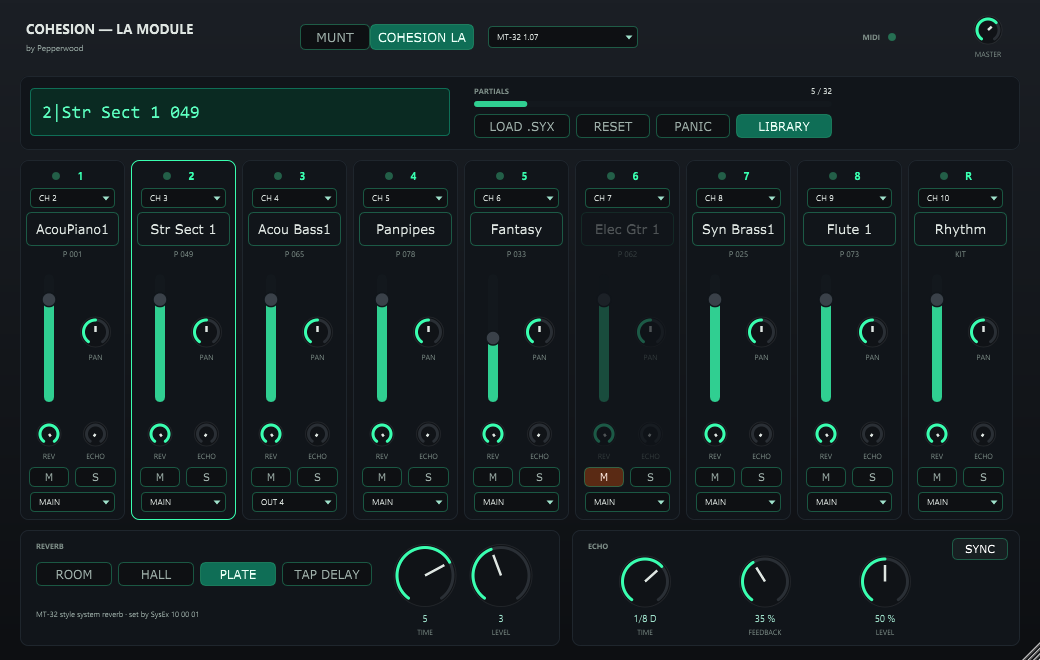
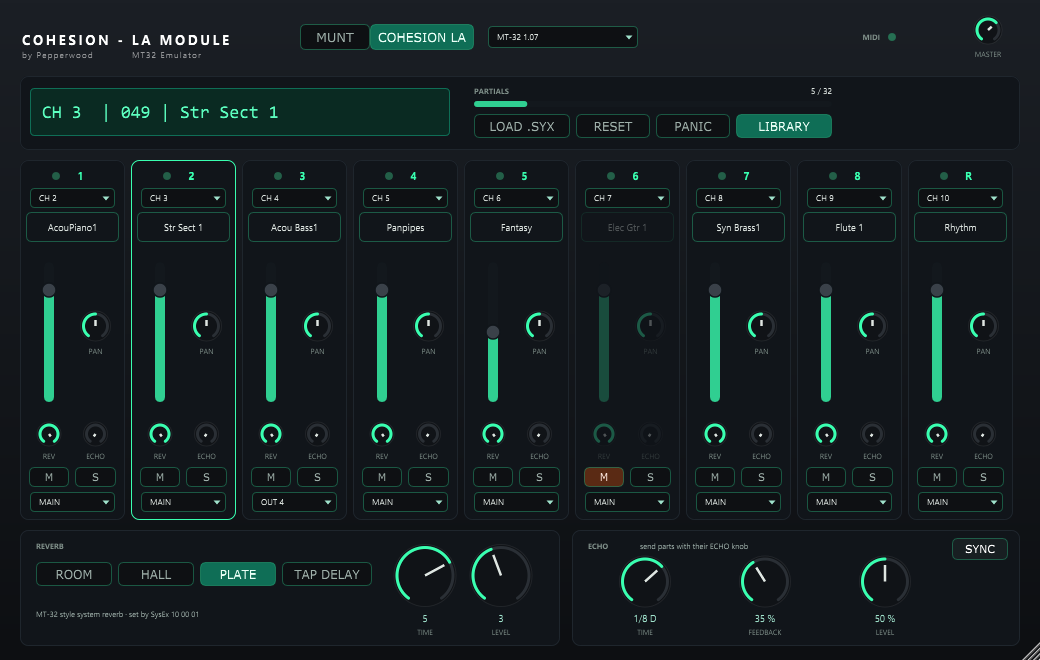
LA Module: stereo pairs, MT-32 pan law, level match, LCD and header
- LA voice: stereo render with the MT-32 pan law (linear, panpot 0 = right,
  CC 10 inverted); structures 8/9 spread their two partials as a stereo pair
- COHESION LA engine +6.6 dB: same level as MUNT (median over the timbres)
- LCD: CH | program | name in fixed columns; smaller part names, no program
  number in the strips
- header: title/subtitle at the same place and style as the other plugins,
  "MT32 Emulator" under LA MODULE; echo panel explains the per-part send
- ModuleTest: "levels" diagnostic (level, stereo width, echo per engine)

diff --git a/Cohesion-LaModule/Source/PluginEditor.cpp b/Cohesion-LaModule/Source/PluginEditor.cpp
@@ -30,6 +30,7 @@ PartStrip::PartStrip (LaModuleEditor& e, LaModuleProcessor& p, int index) : ed (
     nameBtn.setColour (juce::TextButton::textColourOffId, ui::text);
     nameBtn.onClick = [this] { ed.selectPart (idx); ed.showLibrary (idx); };
     nameBtn.setTooltip ("Choose a timbre");
+    nameBtn.getProperties().set ("fontSize", 12.5f);
     addAndMakeVisible (nameBtn);
 
     fader.setSliderStyle (juce::Slider::LinearVertical);
@@ -58,8 +59,8 @@ void PartStrip::resized()
     r.removeFromTop (4);
     chBox.setBounds (r.removeFromTop (20).reduced (4, 0));
     r.removeFromTop (4);
-    nameBtn.setBounds (r.removeFromTop (34));
-    r.removeFromTop (16);                                       // program number (painted)
+    nameBtn.setBounds (r.removeFromTop (30));
+    r.removeFromTop (8);
     auto out = r.removeFromBottom (20); outBox.setBounds (out.reduced (4, 0));
     r.removeFromBottom (5);
     auto ms = r.removeFromBottom (20);
@@ -81,8 +82,6 @@ void PartStrip::paint (juce::Graphics& g)
     auto r = getLocalBounds().reduced (6, 8);
     g.setColour (ui::teal); g.setFont (ui::font (14.0f, true));
     g.drawText (idx < 8 ? juce::String (idx + 1) : juce::String ("R"), r.removeFromTop (16).withTrimmedLeft (16), juce::Justification::centred);
-    g.setColour (ui::label.withAlpha (dimmed ? 0.35f : 1.0f)); g.setFont (ui::font (10.5f));
-    g.drawText (program, getLocalBounds().withY (8 + 16 + 4 + 20 + 4 + 34).withHeight (16), juce::Justification::centred);
 }
 
 void PartStrip::mouseDown (const juce::MouseEvent&) { ed.selectPart (idx); }
@@ -104,7 +103,6 @@ void PartStrip::refresh (bool sel)
     muteBtn.setColour (juce::TextButton::buttonOnColourId, muteOn); muteBtn.setColour (juce::TextButton::textColourOnId, muteText);
     soloBtn.setColour (juce::TextButton::buttonOnColourId, soloOn); soloBtn.setColour (juce::TextButton::textColourOnId, soloText);
     nameBtn.setButtonText (proc.partName (idx));
-    program = idx < 8 ? "P " + juce::String (proc.partProgram (idx) + 1).paddedLeft ('0', 3) : juce::String ("KIT");
     led.level = juce::jmax (led.level * 0.82f, proc.takePartActivity (idx));
     led.repaint();
     repaint();
@@ -266,11 +264,15 @@ void LaModuleEditor::paintCanvas (juce::Graphics& g)
     juce::ColourGradient bg (juce::Colour (0xff1b1f25), 0, 0, juce::Colour (0xff0d0f12), 0, (float) kH, false);
     g.setGradientFill (bg); g.fillAll();
 
-    // title
-    g.setColour (ui::text); g.setFont (ui::font (18.0f, true));
-    g.drawText (juce::String::fromUTF8 ("COHESION \xe2\x80\x94 LA MODULE"), 26, 16, 280, 24, juce::Justification::centredLeft);
-    g.setColour (ui::dim); g.setFont (ui::font (11.0f));
-    g.drawText ("by Pepperwood", 26, 40, 200, 16, juce::Justification::centredLeft);
+    // title + subtitles: same place and style as the other COHESION plugins
+    const auto titleFont = ui::font (18.0f, true).withExtraKerningFactor (0.14f);
+    const auto subFont   = ui::font (11.0f).withExtraKerningFactor (0.10f);
+    g.setColour (juce::Colours::white); g.setFont (titleFont);
+    g.drawText ("COHESION - LA MODULE", 22, 26, 300, 26, juce::Justification::centredLeft);
+    g.setColour (juce::Colours::white.withAlpha (0.55f)); g.setFont (subFont);
+    g.drawText ("by Pepperwood", 22, 47, 180, 16, juce::Justification::centredLeft);
+    const int subX = 22 + juce::roundToInt (titleFont.getStringWidthFloat ("COHESION - "));
+    g.drawText ("MT32 Emulator", subX, 47, 160, 16, juce::Justification::centredLeft);
     g.setColour (ui::label); g.setFont (ui::font (10.0f, true));
     g.drawText ("MIDI", 840, 26, 40, 22, juce::Justification::centredRight);
 
@@ -293,6 +295,7 @@ void LaModuleEditor::paintCanvas (juce::Graphics& g)
     g.drawText ("REVERB", 36, 538, 100, 16, juce::Justification::centredLeft);
     g.drawText ("ECHO", 588, 538, 100, 16, juce::Justification::centredLeft);
     g.setColour (ui::dim); g.setFont (ui::font (10.0f));
+    g.drawText ("send parts with their ECHO knob", 640, 538, 300, 16, juce::Justification::centredLeft);
     g.drawFittedText (juce::String::fromUTF8 (proc.usingMunt() ? "MT-32 system reverb (Munt) \xc2\xb7 set by SysEx 10 00 01"
                                                                : "MT-32 style system reverb \xc2\xb7 set by SysEx 10 00 01"),
                       36, 596, 340, 36, juce::Justification::centredLeft, 2);
@@ -345,9 +348,11 @@ void LaModuleEditor::refreshAll()
     for (int i = 0; i < mt::kParts; ++i) strips[i]->refresh (i == selected);
 
     const int p = selected;
-    const juce::String num = p < 8 ? juce::String (p + 1) : juce::String ("R");
-    lcd.line = p < 8 ? num + "|" + proc.partName (p).paddedRight (' ', 11) + juce::String (proc.partProgram (p) + 1).paddedLeft ('0', 3)
-                     : juce::String ("R|Rhythm Set  KIT");
+    // fixed columns: channel | program | name
+    const int ch = (int) proc.apvts.getRawParameterValue (lpid::part (p, "ch"))->load();
+    const juce::String chText = (ch == 0 ? juce::String ("OFF") : "CH " + juce::String (ch)).paddedRight (' ', 5);
+    const juce::String prog = p < 8 ? juce::String (proc.partProgram (p) + 1).paddedLeft ('0', 3) : juce::String ("KIT");
+    lcd.line = chText + " | " + prog + " | " + proc.partName (p);
     lcd.repaint();
     canvas.repaint();
 }

diff --git a/Cohesion-LaModule/tests/ModuleTest.cpp b/Cohesion-LaModule/tests/ModuleTest.cpp
@@ -14,7 +14,7 @@ static void check (bool ok, const char* what, const juce::String& info = {})
     if (! ok) ++failures;
 }
 
-struct Render { float peak = 0, rms = 0; bool finite = true; std::vector<float> main; };
+struct Render { float peak = 0, rms = 0, side = 0; bool finite = true; std::vector<float> main; };
 
 // render `seconds` with MIDI events placed by sample position; returns main-bus stats
 static Render run (LaModuleProcessor& p, juce::MidiBuffer events, double seconds, int numBusChannels, std::vector<float>* auxPeaks = nullptr)
@@ -23,7 +23,7 @@ static Render run (LaModuleProcessor& p, juce::MidiBuffer events, double seconds
     Render r;
     juce::AudioBuffer<float> buf (numBusChannels, block);
     const int total = (int) (seconds * sr);
-    double sum = 0; int count = 0;
+    double sum = 0, sumM = 0, sumS = 0; int count = 0;
     for (int s = 0; s < total; s += block)
     {
         juce::MidiBuffer mb;
@@ -36,7 +36,7 @@ static Render run (LaModuleProcessor& p, juce::MidiBuffer events, double seconds
             const float l = buf.getSample (0, i), rr = buf.getSample (1, i);
             if (! std::isfinite (l) || ! std::isfinite (rr)) r.finite = false;
             r.peak = juce::jmax (r.peak, std::abs (l), std::abs (rr));
-            sum += l * l + rr * rr; count += 2;
+            sum += l * l + rr * rr; count += 2; sumM += (l + rr) * (l + rr); sumS += (l - rr) * (l - rr);
             r.main.push_back (0.5f * (l + rr));
         }
         if (auxPeaks != nullptr)
@@ -44,6 +44,7 @@ static Render run (LaModuleProcessor& p, juce::MidiBuffer events, double seconds
                 for (int i = 0; i < block; ++i) (*auxPeaks)[(size_t) c] = juce::jmax ((*auxPeaks)[(size_t) c], std::abs (buf.getSample (c, i)));
     }
     r.rms = (float) std::sqrt (sum / juce::jmax (1, count));
+    r.side = (float) std::sqrt (sumS / juce::jmax (1.0e-12, sumM));
     return r;
 }
 
@@ -114,6 +115,48 @@ int main (int argc, char** argv)
     check (p.setBusesLayout (layout), "all 10 stereo outputs can be enabled");
     const int nch = p.getTotalNumOutputChannels();
     p.prepareToPlay (48000.0, 480);
+
+    if (argc > 3 && juce::String (argv[3]) == "levels")
+    {
+        p.setRom ("MT-32 1.07");
+        auto db = [] (float x) { return 20.0f * std::log10 (juce::jmax (1.0e-6f, x)); };
+        for (int q = 1; q < mt::kParts; ++q) setParam (p, lpid::part (q, "mute"), 1.0f);
+        for (int prog : { 0, 4, 16, 24, 32, 40, 48, 52, 56, 61, 64, 72, 80, 88, 96, 104, 112, 120 })
+        {
+            juce::String line = juce::String (prog + 1).paddedLeft (' ', 3) + " ";
+            for (int engine = 0; engine < 2; ++engine)
+            {
+                setParam (p, lpid::engine, (float) engine);
+                juce::MidiBuffer pc; pc.addEvent (juce::MidiMessage::programChange (2, prog), 0); run (p, pc, 0.05, nch);
+                if (engine == 0) line << p.partName (0).paddedRight (' ', 11);
+                for (float rv : { 0.0f, 1.0f })
+                {
+                    setParam (p, lpid::part (0, "rev"), rv);
+                    p.requestPanic(); run (p, {}, 1.5, nch);
+                    juce::MidiBuffer m; m.addEvent (juce::MidiMessage::noteOn (2, 60, (juce::uint8) 100), 0); m.addEvent (juce::MidiMessage::noteOff (2, 60), 40000);
+                    const auto r = run (p, m, 1.0, nch);
+                    line << (engine == 0 ? " M " : " L ") << juce::String (db (r.rms), 1).paddedLeft (' ', 6) << (rv > 0 ? "(rev)" : "") << " side " << juce::String (r.side, 2);
+                }
+            }
+            std::printf ("%s\n", line.toRawUTF8());
+        }
+        for (int q = 0; q < mt::kParts; ++q) { setParam (p, lpid::part (q, "mute"), 0.0f); setParam (p, lpid::part (q, "rev"), 0.0f); }
+        for (int engine = 0; engine < 2; ++engine)
+        {
+            setParam (p, lpid::engine, (float) engine);
+            { juce::MidiBuffer pc; pc.addEvent (juce::MidiMessage::programChange (2, 0), 0); run (p, pc, 0.05, nch); }
+            for (float e : { 0.0f, 1.0f })
+            {
+                setParam (p, lpid::part (0, "ech"), e);
+                p.requestPanic(); run (p, {}, 1.5, nch);
+                juce::MidiBuffer m; m.addEvent (juce::MidiMessage::noteOn (2, 72, (juce::uint8) 110), 0); m.addEvent (juce::MidiMessage::noteOff (2, 72), 2400);
+                const auto r = run (p, m, 2.0, nch);
+                double tail = 0; for (size_t i = 14400; i < 48000; ++i) tail += r.main[i] * r.main[i];
+                std::printf ("echo %s send %.0f: 0.3-1 s %.1f dB\n", engine == 0 ? "MUNT" : "LA", e, db ((float) std::sqrt (tail / 33600.0)));
+            }
+        }
+        return 0;
+    }
 
     for (const juce::String& label : labels)
     {

diff --git a/Cohesion-LaModule/Source/LaPartEngine.h b/Cohesion-LaModule/Source/LaPartEngine.h
@@ -77,12 +77,13 @@ public:
             const int p = v.part;
             float* dl = out.dryL[p]; float* dr = out.dryR[p]; float* fl = out.fxL[p]; float* fr = out.fxR[p];
             const float g = gainP[p] * v.gain;
-            const float gl = g * v.panL, gr = g * v.panR;
             for (int i = 0; i < n; ++i)
             {
-                const float s = v.voice.render (pm[p], modP[p]);
-                dl[i] += s * gl; dr[i] += s * gr;
-                if (v.reverb) { fl[i] += s * gl; fr[i] += s * gr; }
+                float l, r;
+                v.voice.renderStereo (pm[p], modP[p], v.panpot, l, r);
+                l *= g; r *= g;
+                dl[i] += l; dr[i] += r;
+                if (v.reverb) { fl[i] += l; fr[i] += r; }
             }
             if (v.voice.isDone()) v.active = false;
             else used += v.partials;
@@ -93,7 +94,7 @@ public:
     int activePartials() const override { return activeCount.load (std::memory_order_relaxed); }
 
 private:
-    static constexpr float kOutGain = 1.0f;        // same level as the MUNT engine in this module
+    static constexpr float kOutGain = 2.14f;       // +6.6 dB: same level as the MUNT engine (median over the timbres)
     static constexpr int kMaxVoices = 32, kPartialBudget = 32;
     static float dbGain (float db) { return db <= -150.0f ? 0.0f : std::pow (10.0f, db / 20.0f); }
 
@@ -105,7 +106,7 @@ private:
     struct V
     {
         la32::Voice voice; bool active = false, released = false, sustained = false, reverb = false;
-        int part = 0, key = 0, partials = 0; float panL = 0.707f, panR = 0.707f, gain = 1.0f; uint64_t age = 0;
+        int part = 0, key = 0, partials = 0, panpot = 7; float gain = 1.0f; uint64_t age = 0;
     };
 
     mt::Memory& mem;
@@ -116,11 +117,6 @@ private:
     int used = 0;
     std::atomic<int> activeCount { 0 };
 
-    static void panGains (float pos, float& l, float& r)   // pos -1 (left) .. +1 (right), constant power
-    {
-        const float a = (juce::jlimit (-1.0f, 1.0f, pos) + 1.0f) * juce::MathConstants<float>::pi * 0.25f;
-        l = std::cos (a); r = std::sin (a);
-    }
     static int partialCount (const la32::Timbre& t) { int c = 0; for (int k = 0; k < 4; ++k) if (t.partialOn (k)) ++c; return c; }
 
     void release (V& v) { if (! v.released) { v.released = true; v.voice.noteOff(); } }
@@ -142,7 +138,7 @@ private:
     void noteOn (int part, int key, int vel)
     {
         if (mem.rom == nullptr) return;
-        la32::Timbre t; float levelGain = 1.0f, panPos = 0.0f; bool rev;
+        la32::Timbre t; float levelGain = 1.0f; int panpot = 7; bool rev;
         const uint8_t* pt = mem.patchTemp (part);
         int playKey = key;
         if (part == mt::kRhythmPart)
@@ -150,7 +146,7 @@ private:
             const auto rk = mem.rhythmKey (key);
             if (rk.timbre == 127 || rk.level == 0 || ! mem.rhythmTimbre (rk.timbre, t)) return;
             levelGain = dbGain (la32::tvaLevelDb (rk.level));
-            panPos = (7 - rk.pan) / 7.0f;             // panpot 0 = right, 14 = left
+            panpot = rk.pan;                           // panpot 0 = right, 14 = left
             rev = rk.reverb;
         }
         else
@@ -158,7 +154,9 @@ private:
             t = mem.timbreTemp (part);
             playKey = juce::jlimit (0, 127, key + (int) pt[2] - 24);
             const int panCc = parts[part].panCc;
-            panPos = panCc >= 0 ? (panCc - 64) / 63.0f : (7 - (int) pt[9]) / 7.0f;
+            // CC 10 is inverted on the MT-32 (127 = left); MT-32 divides by 9, CM-32L by 8.5
+            const bool mt32 = mem.rom->model.startsWith ("MT");
+            panpot = panCc >= 0 ? (mt32 ? panCc / 9 : (panCc * 8) / 68) : (int) pt[9];
             rev = pt[6] != 0;
         }
         const int need = partialCount (t);
@@ -188,6 +186,6 @@ private:
         v.active = true; v.released = false; v.sustained = false;
         v.part = part; v.key = key; v.partials = need; v.age = ++clock;
         v.gain = levelGain; v.reverb = rev;
-        panGains (panPos, v.panL, v.panR);
+        v.panpot = juce::jlimit (0, 14, panpot);
     }
 };

diff --git a/Cohesion-Synth/Source/La32.h b/Cohesion-Synth/Source/La32.h
@@ -579,7 +579,7 @@ namespace la32
     inline void structure (int s, bool& firstPcm, bool& secondPcm, int& mix)
     {
         static const uint8_t pcmBits[13] = { 0, 0, 2, 2, 1, 3, 3, 0, 3, 0, 2, 1, 3 };
-        static const uint8_t mixType[13] = { 0, 1, 0, 1, 1, 0, 1, 0, 0, 2, 2, 2, 2 };   // 0 a+b, 1 a+ring, 2 ring
+        static const uint8_t mixType[13] = { 0, 1, 0, 1, 1, 0, 1, 3, 3, 2, 2, 2, 2 };   // 0 a+b, 1 a+ring, 2 ring, 3 stereo pair
         s = juce::jlimit (0, 12, s);
         firstPcm = (pcmBits[s] & 2) != 0; secondPcm = (pcmBits[s] & 1) != 0; mix = mixType[s];
     }
@@ -595,7 +595,7 @@ namespace la32
             for (int pair = 0; pair < 2; ++pair)
             {
                 bool aPcm, bPcm; structure (timbre.common[10 + pair], aPcm, bPcm, mix[pair]);
-                if (! timbre.partialOn (pair * 2) || ! timbre.partialOn (pair * 2 + 1)) mix[pair] = 0;
+                if ((mix[pair] == 1 || mix[pair] == 2) && (! timbre.partialOn (pair * 2) || ! timbre.partialOn (pair * 2 + 1))) mix[pair] = 0;
                 for (int k = 0; k < 2; ++k)
                 {
                     const int idx = pair * 2 + k;
@@ -624,10 +624,43 @@ namespace la32
                 {
                     case 1:  out += a + 0.97f * a * b; break;   // partial + ring
                     case 2:  out += 1.78f * a * b; break;       // ring only
-                    default: out += a + b; break;
+                    default: out += a + b; break;               // plain mix and stereo pair (mono sum)
                 }
             }
             return out * 0.35f;
+        }
+
+        // Stereo render with the MT-32 pan law: panpot 0 (right) .. 14 (left), linear.
+        // Stereo-pair structures (8, 9) spread their two partials around the panpot.
+        void renderStereo (double pitchMult, float modWheel, int panpot, float& left, float& right)
+        {
+            left = right = 0.0f;
+            if (rom == nullptr) return;
+            static const uint8_t masterPan[15] = { 0, 0, 0, 0, 0, 0, 0, 0, 1, 2, 3, 4, 5, 6, 7 };
+            static const uint8_t slavePan[15]  = { 0, 1, 2, 3, 4, 5, 6, 7, 7, 7, 7, 7, 7, 7, 7 };
+            panpot = juce::jlimit (0, 14, panpot);
+            const int even = panpot & 0x0E;                       // the LA32 receives even pan values
+            for (int pair = 0; pair < 2; ++pair)
+            {
+                const float a = part[pair * 2].render (pitchMult, modWheel);
+                const float b = part[pair * 2 + 1].render (pitchMult, modWheel);
+                if (mix[pair] == 3)
+                {
+                    const float pa = (float) (masterPan[panpot] * 2) / 14.0f, pb = (float) (slavePan[panpot] * 2) / 14.0f;
+                    left += a * pa + b * pb; right += a * (1.0f - pa) + b * (1.0f - pb);
+                    continue;
+                }
+                float o;
+                switch (mix[pair])
+                {
+                    case 1:  o = a + 0.97f * a * b; break;
+                    case 2:  o = 1.78f * a * b; break;
+                    default: o = a + b; break;
+                }
+                const float pl = (float) even / 14.0f;
+                left += o * pl; right += o * (1.0f - pl);
+            }
+            left *= 0.35f; right *= 0.35f;
         }
 
     private:

diff --git a/Cohesion-LaModule/Source/PluginEditor.h b/Cohesion-LaModule/Source/PluginEditor.h
@@ -28,6 +28,11 @@ public:
         g.setColour (juce::Colour (0xff9fe1cb)); g.fillPath (p);
     }
     juce::Font getComboBoxFont (juce::ComboBox&) override { return ui::font (11.0f); }
+    juce::Font getTextButtonFont (juce::TextButton& b, int h) override
+    {
+        if (b.getProperties().contains ("fontSize")) return ui::font ((float) b.getProperties()["fontSize"]);
+        return CohesionLookAndFeel::getTextButtonFont (b, h);
+    }
     void positionComboBoxText (juce::ComboBox& box, juce::Label& l) override
     {
         l.setBounds (4, 0, box.getWidth() - 18, box.getHeight());
@@ -90,7 +95,6 @@ struct PartStrip : juce::Component
     juce::TextButton muteBtn { "M" }, soloBtn { "S" };
     std::unique_ptr<ButtonAtt> muteAtt, soloAtt;
     bool selected = false, dimmed = false;
-    juce::String program;
 };
 
 struct Lcd : juce::Component
